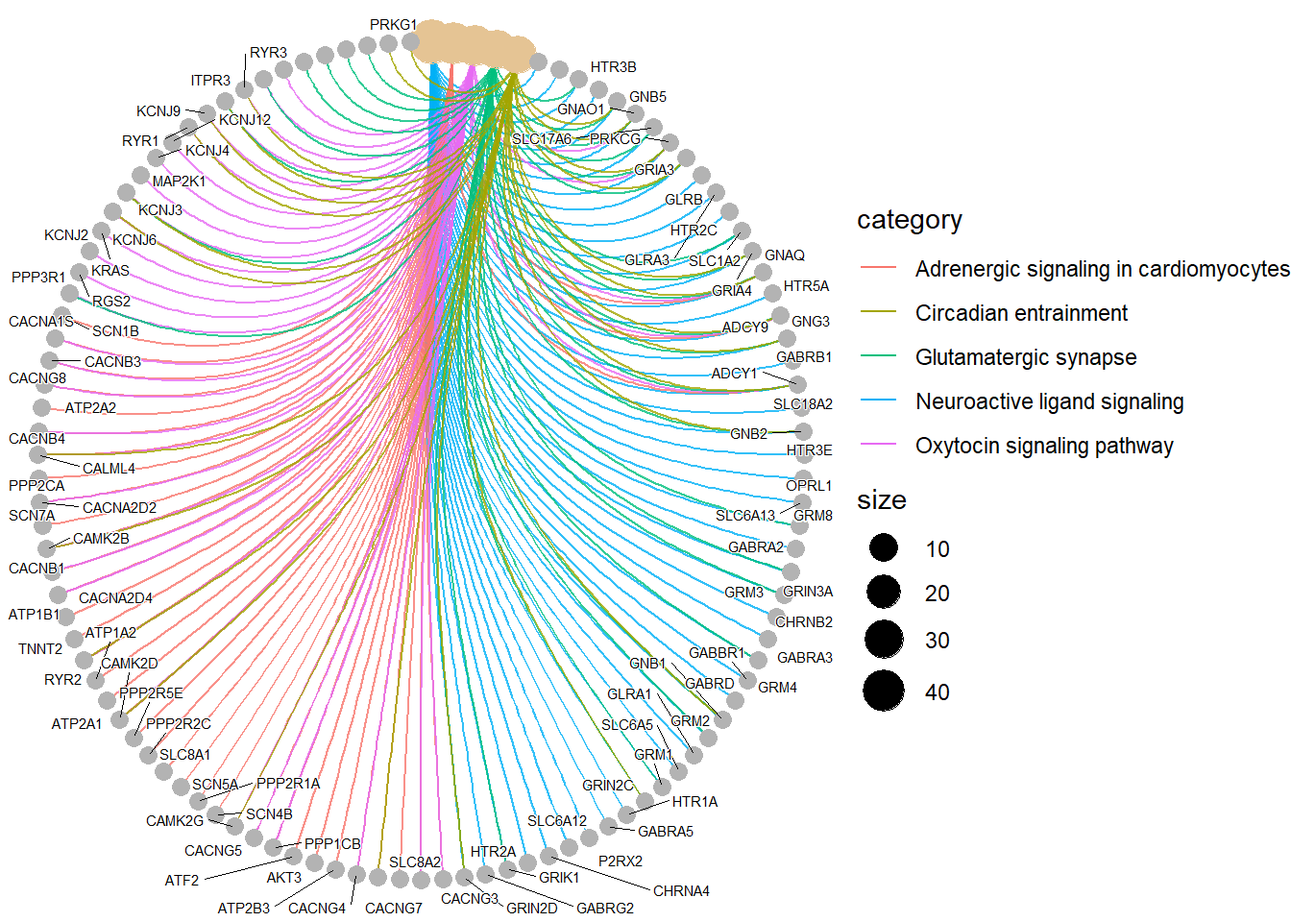
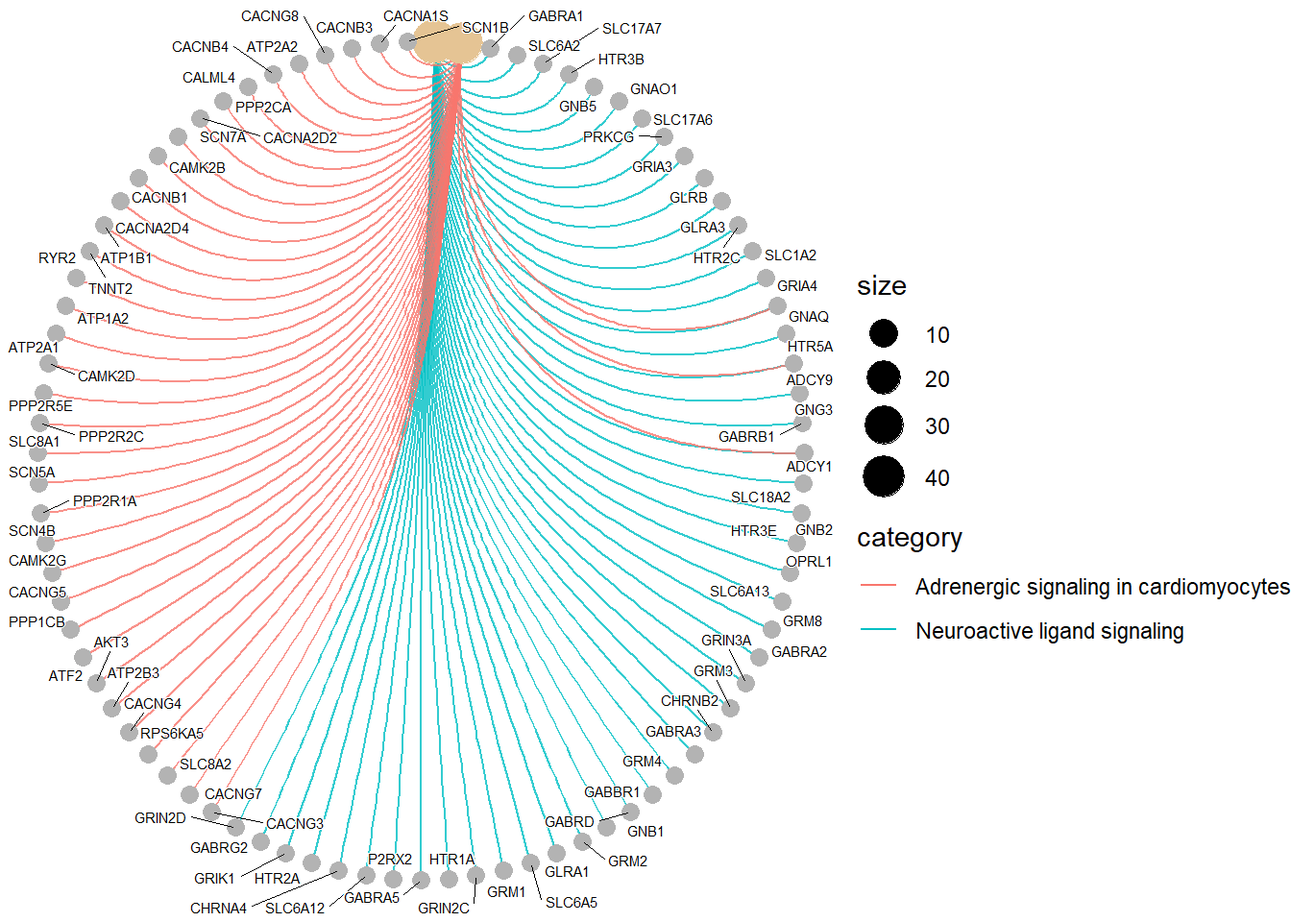
5/15/2026

Changed region(s): [[0.0, 0.0, 1.0, 1.0], [0.6562, 0.2188, 0.75, 0.25], [0.5, 0.9375, 0.5625, 0.9688]]

diff --git a/docs/part03_func_enrichment_clusterprofiler_v2.html b/docs/part03_func_enrichment_clusterprofiler_v2.html
@@ -37,6 +37,23 @@
 <script src="site_libs/navigation-1.1/codefolding.js"></script>
 <link href="site_libs/highlightjs-9.12.0/textmate.css" rel="stylesheet" />
 <script src="site_libs/highlightjs-9.12.0/highlight.js"></script>
+<link href="site_libs/htmltools-fill-0.5.8.1/fill.css" rel="stylesheet" />
+<script src="site_libs/htmlwidgets-1.6.4/htmlwidgets.js"></script>
+<link href="site_libs/datatables-css-0.0.0/datatables-crosstalk.css" rel="stylesheet" />
+<script src="site_libs/datatables-binding-0.33/datatables.js"></script>
+<link href="site_libs/dt-core-1.13.6/css/jquery.dataTables.min.css" rel="stylesheet" />
+<link href="site_libs/dt-core-1.13.6/css/jquery.dataTables.extra.css" rel="stylesheet" />
+<script src="site_libs/dt-core-1.13.6/js/jquery.dataTables.min.js"></script>
+<script src="site_libs/jszip-1.13.6/jszip.min.js"></script>
+<script src="site_libs/pdfmake-1.13.6/pdfmake.js"></script>
+<script src="site_libs/pdfmake-1.13.6/vfs_fonts.js"></script>
+<link href="site_libs/dt-ext-buttons-1.13.6/css/buttons.dataTables.min.css" rel="stylesheet" />
+<script src="site_libs/dt-ext-buttons-1.13.6/js/dataTables.buttons.min.js"></script>
+<script src="site_libs/dt-ext-buttons-1.13.6/js/buttons.html5.min.js"></script>
+<script src="site_libs/dt-ext-buttons-1.13.6/js/buttons.colVis.min.js"></script>
+<script src="site_libs/dt-ext-buttons-1.13.6/js/buttons.print.min.js"></script>
+<link href="site_libs/crosstalk-1.2.1/css/crosstalk.min.css" rel="stylesheet" />
+<script src="site_libs/crosstalk-1.2.1/js/crosstalk.min.js"></script>
 <link href="site_libs/font-awesome-6.4.2/css/all.min.css" rel="stylesheet" />
 <link href="site_libs/font-awesome-6.4.2/css/v4-shims.min.css" rel="stylesheet" />
 
@@ -400,7 +417,7 @@ aria-hidden="true"></span> </a>
 <div class="tab-content">
 <div id="summary" class="tab-pane fade in active">
 <p>
-<strong>Last updated:</strong> 2026-05-14
+<strong>Last updated:</strong> 2026-05-15
 </p>
 <p>
 <strong>Checks:</strong> <span
@@ -534,15 +551,15 @@ project makes it easier to run your code on other machines.</p>
 <div class="panel panel-default">
 <div class="panel-heading">
 <p class="panel-title">
-<a data-toggle="collapse" data-parent="#workflowr-checks" href="#strongRepositoryversionstrongahrefhttpsgithubcomhan16deepmotifstree1c1e96f09645b4eb6708d34d26c876f9dfafab95targetblank1c1e96fa">
+<a data-toggle="collapse" data-parent="#workflowr-checks" href="#strongRepositoryversionstrongahrefhttpsgithubcomhan16deepmotifstree71f26874ce268f691884d6c8c4ad8a2c129c163ftargetblank71f2687a">
 <span class="glyphicon glyphicon-ok text-success"
 aria-hidden="true"></span> <strong>Repository version:</strong>
-<a href="https://github.com/han16/deep_motifs/tree/1c1e96f09645b4eb6708d34d26c876f9dfafab95" target="_blank">1c1e96f</a>
+<a href="https://github.com/han16/deep_motifs/tree/71f26874ce268f691884d6c8c4ad8a2c129c163f" target="_blank">71f2687</a>
 </a>
 </p>
 </div>
 <div
[2 lines of base64/hex data omitted]
 class="panel-collapse collapse">
 <div class="panel-body">
 <p>
@@ -552,7 +569,7 @@ reproducibility.
 </p>
 <p>
 The results in this page were generated with repository version
-<a href="https://github.com/han16/deep_motifs/tree/1c1e96f09645b4eb6708d34d26c876f9dfafab95" target="_blank">1c1e96f</a>.
+<a href="https://github.com/han16/deep_motifs/tree/71f26874ce268f691884d6c8c4ad8a2c129c163f" target="_blank">71f2687</a>.
 See the <em>Past versions</em> tab to see a history of the changes made
 to the R Markdown and HTML files.
 </p>
@@ -618,6 +635,40 @@ Message
 </tr>
 </thead>
 <tbody>
+<tr>
+<td>
+Rmd
+</td>
+<td>
+<a href="https://github.com/han16/deep_motifs/blob/71f26874ce268f691884d6c8c4ad8a2c129c163f/analysis/part03_func_enrichment_clusterprofiler_v2.Rmd" target="_blank">71f2687</a>
+</td>
+<td>
+han
+</td>
+<td>
+2026-05-14
+</td>
+<td>
+5/14/2026
+</td>
+</tr>
+<tr>
+<td>
+html
+</td>
+<td>
+<a href="https://rawcdn.githack.com/han16/deep_motifs/71f26874ce268f691884d6c8c4ad8a2c129c163f/docs/part03_func_enrichment_clusterprofiler_v2.html" target="_blank">71f2687</a>
+</td>
+<td>
+han
+</td>
+<td>
+2026-05-14
+</td>
+<td>
+5/14/2026
+</td>
+</tr>
 <tr>
 <td>
 Rmd
@@ -897,6 +948,43 @@ ekegg &lt;- enrichKEGG(gene         = entrez_ids,
 # Network plot for KEGG pathways
 cnetplot(ekegg, circular = TRUE, colorEdge = TRUE, cex_label_gene=0.5, cex_label_category=5)</code></pre>
 <p><img src="figure/part03_func_enrichment_clusterprofiler_v2.Rmd/unnamed-chunk-7-1.png" width="672" style="display: block; margin: auto;" /></p>
+<p>
+<button type="button" class="btn btn-default btn-xs btn-workflowr btn-workflowr-fig" data-toggle="collapse" data-target="#fig-unnamed-chunk-7-1">
+Past versions of unnamed-chunk-7-1.png
+</button>
+</p>
+<div id="fig-unnamed-chunk-7-1" class="collapse">
+<div class="table-responsive">
+<table class="table table-condensed table-hover">
+<thead>
+<tr>
+<th>
+Version
+</th>
+<th>
+Author
+</th>
+<th>
+Date
+</th>
+</tr>
+</thead>
+<tbody>
+<tr>
+<td>
+<a href="https://github.com/han16/deep_motifs/blob/71f26874ce268f691884d6c8c4ad8a2c129c163f/docs/figure/part03_func_enrichment_clusterprofiler_v2.Rmd/unnamed-chunk-7-1.png" target="_blank">71f2687</a>
+</td>
+<td>
+han
+</td>
+<td>
+2026-05-14
+</td>
+</tr>
+</tbody>
+</table>
+</div>
+</div>
 <pre class="r"><code>length(unique(ekegg@gene))</code></pre>
 <pre><code>[1] 902</code></pre>
 <pre class="r"><code># Convert Entrez IDs to Gene Symbols
@@ -910,8 +998,108 @@ ekegg@result$geneID &lt;- sapply(strsplit(ekegg@result$geneID, &quot;/&quot;), f
 length(unique(ekegg@gene))</code></pre>
 <pre><code>[1] 902</code></pre>
 <pre class="r"><code># Plot the cnetplot with gene symbols
-cnetplot(ekegg, circular = TRUE, colorEdge = TRUE, cex_label_gene=0.4, cex_label_category=1)</code></pre>
-<p><img src="figure/part03_func_enrichment_clusterprofiler_v2.Rmd/unnamed-chunk-8-1.png" width="672" style="display: block; margin: auto;" /></p>
+genes_in_plot &lt;- unique(unlist(strsplit(ekegg@result$geneID[1:2], &quot;/&quot;)))
+length(genes_in_plot)</code></pre>
+<pre><code>[1] 85</code></pre>
+<pre class="r"><code>plot_results &lt;- result_round1[result_round1$symbol %in% genes_in_plot, ]
+
+plot_results %&gt;% 
+  datatable(extensions = &#39;Buttons&#39;,
+            options = list(dom = &#39;Blfrtip&#39;,
+                           buttons = c(&#39;copy&#39;, &#39;csv&#39;, &#39;excel&#39;, &#39;pdf&#39;, &#39;print&#39;),
+                           lengthMenu = list(c(10,25,50,-1),
+                                             c(10,25,50,&quot;All&quot;))))</code></pre>
+<div class="datatables html-widget html-fill-item" id="htmlwidget-a931752ae4f30d759859" style="width:100%;height:auto;"></div>
+<script type="application/json" data-for="htmlwidget-a931752ae4f30d759859">{"x":{"filter":"none","vertical":false,"extensions":["Buttons"],"data":[["1","2","3","4","5","6","7","8","9","10","11","12","13","14","15","16","17","18","19","20","21","22","23","24","25","26","27","28","29","30","31","32","33","34","35","36","37","38","39","40","41","42","43","44","45","46","47","48","49","50","51","52","53","54","55","56","57","58","59","60","61","62","63","64","65","66","67","68","69","70","71","72","73","74","75","76","77","78","79","80","81","82","83","84","85"],["ENSP00000005284","ENSP00000023897","ENSP00000219833","ENSP00000221485","ENSP00000222212","ENSP00000236877","ENSP00000260191","ENSP00000261837","ENSP00000261991","ENSP00000262138","ENSP00000262493","ENSP00000263160","ENSP00000263431","ENSP00000263519","ENSP00000263826","ENSP00000264110","ENSP00000264357","ENSP00000264428","ENSP00000274093","ENSP00000276198","ENSP00000278379","ENSP00000282499","ENSP00000286548","ENSP00000287907","ENSP00000294016","ENSP00000294117","ENSP00000295454","ENSP00000296122","ENSP00000297323","ENSP00000298472","ENSP00000303092","ENSP00000305260","ENSP00000319060","ENSP00000322460","ENSP00000324804","ENSP00000328968","ENSP00000332931","ENSP00000335083","ENSP00000335511","ENSP00000336764","ENSP00000337641","ENSP00000339260","ENSP00000339740","ENSP00000344173","ENSP00000348897","ENSP00000349595","ENSP00000354490","ENSP00000355155","ENSP00000355316","ENSP00000355533","ENSP00000356286","ENSP00000356789","ENSP00000357461","ENSP00000359334","ENSP00000363296","ENSP00000366233","ENSP00000367848","ENSP00000367869","ENSP00000372169","ENSP00000377840","ENSP00000378492","ENSP00000379098","ENSP00000386796","ENSP00000411593","ENSP00000418081","ENSP00000418447","ENSP00000419081","ENSP00000434364","ENSP00000438949","ENSP00000440045","ENSP00000270458","ENSP00000282753","ENSP00000293190","ENSP00000301050","ENSP00000316244","ENSP00000335592","ENSP00000343339","ENSP00000352702","ENSP00000355192","ENSP00000359285","ENSP00000367959","ENSP00000382791","ENSP00000396915","ENSP00000410732","ENSP00000263269"],[10368,2554,6530,57030,59284,6543,9177,10681,9252,27092,2775,57084,5582,492,10000,1386,2892,2743,8001,3358,6506,2893,2776,3361,115,2785,2560,5500,107,6571,27091,2783,818,6330,5518,6331,6546,5522,285242,4987,5529,6540,817,2918,2555,487,477,116443,2913,6262,7139,481,1141,2556,2914,2550,2563,2782,93589,782,2912,816,6332,2741,9254,5515,91860,9152,785,488,59283,2911,2905,784,3350,2558,22953,6539,779,1137,3356,2897,6324,2566,2906],["CACNG3","GABRA1","SLC6A2","SLC17A7","CACNG7","SLC8A2","HTR3B","GNB5","RPS6KA5","CACNG4","GNAO1","SLC17A6","PRKCG","ATP2B3","AKT3","ATF2","GRIA3","GLRB","GLRA3","HTR2C","SLC1A2","GRIA4","GNAQ","HTR5A","ADCY9","GNG3","GABRB1","PPP1CB","ADCY1","SLC18A2","CACNG5","GNB2","CAMK2G","SCN4B","PPP2R1A","SCN5A","SLC8A1","PPP2R2C","HTR3E","OPRL1","PPP2R5E","SLC6A13","CAMK2D","GRM8","GABRA2","ATP2A1","ATP1A2","GRIN3A","GRM3","RYR2","TNNT2","ATP1B1","CHRNB2","GABRA3","GRM4","GABBR1","GABRD","GNB1","CACNA2D4","CACNB1","GRM2","CAMK2B","SCN7A","GLRA1","CACNA2D2","PPP2CA","CALML4","SLC6A5","CACNB4","ATP2A2","CACNG8","GRM1","GRIN2C","CACNB3","HTR1A","GABRA5","P2RX2","SLC6A12","CACNA1S","CHRNA4","HTR2A","GRIK1","SCN1B","GABRG2","GRIN2D"],[0.7185011734490878,0.9498805259236656,0.5026292126907923,0.8568566861316101,0.5543561931823221,0.5769930345918395,0.567650298747657,0.6584036292669604,0.5095134537125442,0.7005293198217616,0.8706857805530813,0.638848013998879,0.5425321131805275,0.719665339472997,0.6893668798617126,0.5622370010526542,0.7765718860180719,0.5913416110332372,0.532509963444874,0.6597936350084709,0.5661332231939014,0.7186813131818965,0.5371576936905572,0.5080097616457301,0.7577577690429171,0.5166753562738974,0.7782175267991511,0.8273447736848967,0.6946519661271191,0.5680575188615096,0.5263589312532353,0.7900413216105399,0.609808187254995,0.5042124335710351,0.743161794062528,0.509360465007721,0.5935819482045531,0.5065629100566501,0.5310900904407702,0.5199925937725934,0.5205277363891798,0.5488946824751496,0.52575343857796,0.561489173089584,0.57408679757493,0.5003798166314839,0.6021707397441545,0.62591649428868,0.7242123968247615,0.7948353707849116,0.5660162374223343,0.8940050981929271,0.5273001188324545,0.5628571812639548,0.5245914621585879,0.5271266225963216,0.6297490579713939,0.5397595054059873,0.594479093850329,0.6602323637826929,0.7425441686302381,0.8448783107885154,0.7315405367798822,0.5372794972160646,0.6280657279879294,0.5735193786611598,0.5009274348320594,0.5126128702787203,0.7059016819078747,0.5597407152441575,0.5508319049166247,0.6915229527958355,0.5663708175318808,0.6573857055695054,0.6865179365462261,0.6242685796414321,0.5365438293942805,0.5517580374298583,0.5088255712527152,0.603030395463331,0.5342275558892673,0.6392554838874261,0.5013475837589784,0.7895587465849689,0.5092219941038921],[0.0367721277578287,0.0100216971094612,0.0615710375727286,0.0264262279017189,0.0581807740208813,0.0141058151320638,0.0454095180273377,0.0350041022058101,0.0539100846123557,0.0649035586496835,0.0177534114441801,0.022865625613912,0.109838921761479,0.0398010628100413,0.0151808708316453,0.0547418386360498,0.0461914793893101,0.0288480056505279,0.029391920814991,0.0418812456098474,0.0750639875072547,0.0363292078002463,0.07557040159196581,0.0693565032503775,0.0242570616926062,0.0258175988468056,0.0254753644119805,0.0176569213270225,0.0983916361270807,0.0452542574158219,0.0587414423905345,0.0186016976984033,0.0501563517004209,0.0301358835659459,0.0505568446304204,0.0475514540355994,0.1104382428447359,0.0281982454592998,0.0226911705760007,0.0253714185012923,0.0470663458697091,0.0408756074146297,0.0229085282889194,0.08517994466913049,0.0296017826246847,0.08659223718171551,0.0276025967236761,0.0488273412174871,0.0577603856645712,0.0382284775474376,0.0333619752941216,0.0143178446614641,0.0360895009382998,0.0510189863938722,0.0221582060523037,0.0323783863045284,0.0556124522560769,0.0614794189252955,0.0325518877034675,0.0223566952041882,0.0618061056897049,0.02562803792782,0.0308229789295418,0.0485213742880341,0.06695515832543419,0.0877370408990595,0.0611529510325217,0.1118908454231614,0.0276508466525665,0.0512332542178875,0.0531964902444516,0.0422275428421832,0.0455350484441095,0.0203695349097184,0.0277344532588721,0.0271115476737349,0.0746286071152919,0.0728623647909806,0.0356060259051829,0.0202954007113334,0.07648678341418109,0.0194732327880923,0.0328869661264452,0.0202576880708533,0.0276566157029603],[4,4,5,5,3,2,4,5,4,4,3,5,4,4,3,4,4,4,4,5,5,5,5,4,4,3,4,5,5,5,5,5,5,5,5,5,3,3,4,4,4,4,5,5,3,5,4,5,5,4,5,4,3,5,4,5,5,4,5,5,5,2,3,4,4,4,5,4,5,4,4,3,3,4,4,3,4,4,4,3,4,4,3,3,3]],"container":"<table class=\"display\">\n  <thead>\n    <tr>\n      <th> <\/th>\n      <th>ensembl_string<\/th>\n      <th>entrez<\/th>\n      <th>symbol<\/th>\n      <th>deepmotifs_score_mean<\/th>\n      <th>deepmotifs_score_std<\/th>\n      <th>deepmotifs_n_runs<\/th>\n    <\/tr>\n  <\/thead>\n<\/table>","options":{"dom":"Blfrtip","buttons":["copy","csv","excel","pdf","print"],"lengthMenu":[[10,25,50,-1],["10","25","50","All"]],"columnDefs":[{"className":"dt-right","targets":[2,4,5,6]},{"orderable":false,"targets":0},{"name":" ","targets":0},{"name":"ensembl_string","targets":1},{"name":"entrez","targets":2},{"name":"symbol","targets":3},{"name":"deepmotifs_score_mean","targets":4},{"name":"deepmotifs_score_std","targets":5},{"name":"deepmotifs_n_runs","targets":6}],"order":[],"autoWidth":false,"orderClasses":false}},"evals":[],"jsHooks":[]}</script>
+<pre class="r"><code># 2. Create the named vector specifically for these genes
+gene_scores &lt;- plot_results$deepmotifs_score_mean
+names(gene_scores) &lt;- plot_results$symbol
+
+p1=cnetplot(ekegg, circular = TRUE, colorEdge = TRUE, 
+         showCategory = 2,         # This limits the plot to the top 3 results
+         cex_label_gene=0.4, cex_label_category=1)
+
+p1</code></pre>
+<p><img src="figure/part03_func_enrichment_clusterprofiler_v2.Rmd/unnamed-chunk-8-2.png" width="672" style="display: block; margin: auto;" /></p>
+<pre class="r"><code>p=cnetplot(ekegg, circular = TRUE, colorEdge = TRUE, 
+         showCategory = 2,         # This limits the plot to the top 3 results
+         foldChange = gene_scores,   # Scales gene circle size by mean score
+         cex_label_gene=0.4, cex_label_category=1)
+
+
+  # Use this to make the size differences more obvious
+p+ # Change the color gradient to shades of blue and rename the legend
+  scale_color_gradient(low = &quot;#e5f5e0&quot;, high = &quot;#006d2c&quot;, name = &quot;DeepMOTIFs score&quot;) +
+  
+  # Adjust the size range and rename the size legend
+  scale_size_continuous(range = c(1.5, 6), name = &quot;Size&quot;) +
+  
+  # Optional: Clean up the theme
+  theme(legend.title = element_text(size = 10), 
+        legend.text = element_text(size = 8))</code></pre>
+<p><img src="figure/part03_func_enrichment_clusterprofiler_v2.Rmd/unnamed-chunk-8-3.png" width="672" style="display: block; margin: auto;" /></p>
+<div id="pathways" class="section level4">
+<h4>pathways</h4>
+<pre class="r"><code># Extract top 5 pathways by p values 
+ekegg_top5 &lt;- ekegg
+ekegg_top5@result &lt;- ekegg@result[1:5, ]
+
+# Convert to tibble to use dplyr functions safely
+ekegg_df &lt;- as_tibble(ekegg_top5@result)
+
+# Extract gene–pathway relationships
+gene_pathway_df &lt;- ekegg_df %&gt;%
+  dplyr::select(Description, geneID) %&gt;%
+  tidyr::separate_rows(geneID, sep = &quot;/&quot;) %&gt;%
+  dplyr::rename(pathway = Description, gene = geneID) %&gt;%
+  dplyr::distinct()
+
+
+
+
+
+gene_pathway_df%&gt;%
+datatable(extensions = &#39;Buttons&#39;,
+            options = list(dom = &#39;Blfrtip&#39;,
+                           buttons = c(&#39;copy&#39;, &#39;csv&#39;, &#39;excel&#39;, &#39;pdf&#39;, &#39;print&#39;),
+                           lengthMenu = list(c(10,25,50,-1),
+                                             c(10,25,50,&quot;All&quot;))))</code></pre>
+<div class="datatables html-widget html-fill-item" id="htmlwidget-5affc4f25ab85bf888dc" style="width:100%;height:auto;"></div>
+<script type="application/json" data-for="htmlwidget-5affc4f25ab85bf888dc">{"x":{"filter":"none","vertical":false,"extensions":["Buttons"],"data":[["1","2","3","4","5","6","7","8","9","10","11","12","13","14","15","16","17","18","19","20","21","22","23","24","25","26","27","28","29","30","31","32","33","34","35","36","37","38","39","40","41","42","43","44","45","46","47","48","49","50","51","52","53","54","55","56","57","58","59","60","61","62","63","64","65","66","67","68","69","70","71","72","73","74","75","76","77","78","79","80","81","82","83","84","85","86","87","88","89","90","91","92","93","94","95","96","97","98","99","100","101","102","103","104","105","106","107","108","109","110","111","112","113","114","115","116","117","118","119","120","121","122","123","124","125","126","127","128","129","130","131","132","133","134","135","136","137","138","139","140","141","142","143","144","145","146","147","148","149","150","151","152","153","154","155","156","157","158","159","160","161","162","163","164","165","166","167","168","169","170","171","172","173","174","175","176","177","178","179","180","181","182","183"],["Neuroactive ligand signaling","Neuroactive ligand signaling","Neuroactive ligand signaling","Neuroactive ligand signaling","Neuroactive ligand signaling","Neuroactive ligand signaling","Neuroactive ligand signaling","Neuroactive ligand signaling","Neuroactive ligand signaling","Neuroactive ligand signaling","Neuroactive ligand signaling","Neuroactive ligand signaling","Neuroactive ligand signaling","Neuroactive ligand signaling","Neuroactive ligand signaling","Neuroactive ligand signaling","Neuroactive ligand signaling","Neuroactive ligand signaling","Neuroactive ligand signaling","Neuroactive ligand signaling","Neuroactive ligand signaling","Neuroactive ligand signaling","Neuroactive ligand signaling","Neuroactive ligand signaling","Neuroactive ligand signaling","Neuroactive ligand signaling","Neuroactive ligand signaling","Neuroactive ligand signaling","Neuroactive ligand signaling","Neuroactive ligand signaling","Neuroactive ligand signaling","Neuroactive ligand signaling","Neuroactive ligand signaling","Neuroactive ligand signaling","Neuroactive ligand signaling","Neuroactive ligand signaling","Neuroactive ligand signaling","Neuroactive ligand signaling","Neuroactive ligand signaling","Neuroactive ligand signaling","Neuroactive ligand signaling","Neuroactive ligand signaling","Neuroactive ligand signaling","Neuroactive ligand signaling","Neuroactive ligand signaling","Neuroactive ligand signaling","Neuroactive ligand signaling","Neuroactive ligand signaling","Neuroactive ligand signaling","Adrenergic signaling in cardiomyocytes","Adrenergic signaling in cardiomyocytes","Adrenergic signaling in cardiomyocytes","Adrenergic signaling in cardiomyocytes","Adrenergic signaling in cardiomyocytes","Adrenergic signaling in cardiomyocytes","Adrenergic signaling in cardiomyocytes","Adrenergic signaling in cardiomyocytes","Adrenergic signaling in cardiomyocytes","Adrenergic signaling in cardiomyocytes","Adrenergic signaling in cardiomyocytes","Adrenergic signaling in cardiomyocytes","Adrenergic signaling in cardiomyocytes","Adrenergic signaling in cardiomyocytes","Adrenergic signaling in cardiomyocytes","Adrenergic signaling in cardiomyocytes","Adrenergic signaling in cardiomyocytes","Adrenergic signaling in cardiomyocytes","Adrenergic signaling in cardiomyocytes","Adrenergic signaling in cardiomyocytes","Adrenergic signaling in cardiomyocytes","Adrenergic signaling in cardiomyocytes","Adrenergic signaling in cardiomyocytes","Adrenergic signaling in cardiomyocytes","Adrenergic signaling in cardiomyocytes","Adrenergic signaling in cardiomyocytes","Adrenergic signaling in cardiomyocytes","Adrenergic signaling in cardiomyocytes","Adrenergic signaling in cardiomyocytes","Adrenergic signaling in cardiomyocytes","Adrenergic signaling in cardiomyocytes","Adrenergic signaling in cardiomyocytes","Adrenergic signaling in cardiomyocytes","Adrenergic signaling in cardiomyocytes","Adrenergic signaling in cardiomyocytes","Adrenergic signaling in cardiomyocytes","Adrenergic signaling in cardiomyocytes","Adrenergic signaling in cardiomyocytes","Adrenergic signaling in cardiomyocytes","Oxytocin signaling pathway","Oxytocin signaling pathway","Oxytocin signaling pathway","Oxytocin signaling pathway","Oxytocin signaling pathway","Oxytocin signaling pathway","Oxytocin signaling pathway","Oxytocin signaling pathway","Oxytocin signaling pathway","Oxytocin signaling pathway","Oxytocin signaling pathway","Oxytocin signaling pathway","Oxytocin signaling pathway","Oxytocin signaling pathway","Oxytocin signaling pathway","Oxytocin signaling pathway","Oxytocin signaling pathway","Oxytocin signaling pathway","Oxytocin signaling pathway","Oxytocin signaling pathway","Oxytocin signaling pathway","Oxytocin signaling pathway","Oxytocin signaling pathway","Oxytocin signaling pathway","Oxytocin signaling pathway","Oxytocin signaling pathway","Oxytocin signaling pathway","Oxytocin signaling pathway","Oxytocin signaling pathway","Oxytocin signaling pathway","Oxytocin signaling pathway","Oxytocin signaling pathway","Oxytocin signaling pathway","Oxytocin signaling pathway","Oxytocin signaling pathway","Oxytocin signaling pathway","Oxytocin signaling pathway","Glutamatergic synapse","Glutamatergic synapse","Glutamatergic synapse","Glutamatergic synapse","Glutamatergic synapse","Glutamatergic synapse","Glutamatergic synapse","Glutamatergic synapse","Glutamatergic synapse","Glutamatergic synapse","Glutamatergic synapse","Glutamatergic synapse","Glutamatergic synapse","Glutamatergic synapse","Glutamatergic synapse","Glutamatergic synapse","Glutamatergic synapse","Glutamatergic synapse","Glutamatergic synapse","Glutamatergic synapse","Glutamatergic synapse","Glutamatergic synapse","Glutamatergic synapse","Glutamatergic synapse","Glutamatergic synapse","Glutamatergic synapse","Glutamatergic synapse","Glutamatergic synapse","Glutamatergic synapse","Glutamatergic synapse","Glutamatergic synapse","Circadian entrainment","Circadian entrainment","Circadian entrainment","Circadian entrainment","Circadian entrainment","Circadian entrainment","Circadian entrainment","Circadian entrainment","Circadian entrainment","Circadian entrainment","Circadian entrainment","Circadian entrainment","Circadian entrainment","Circadian entrainment","Circadian entrainment","Circadian entrainment","Circadian entrainment","Circadian entrainment","Circadian entrainment","Circadian entrainment","Circadian entrainment","Circadian entrainment","Circadian entrainment","Circadian entrainment","Circadian entrainment","Circadian entrainment","Circadian entrainment"],["GABRA1","SLC6A2","SLC17A7","HTR3B","GNB5","GNAO1","SLC17A6","PRKCG","GRIA3","GLRB","GLRA3","HTR2C","SLC1A2","GRIA4","GNAQ","HTR5A","ADCY9","GNG3","GABRB1","ADCY1","SLC18A2","GNB2","HTR3E","OPRL1","SLC6A13","GRM8","GABRA2","GRIN3A","GRM3","CHRNB2","GABRA3","GRM4","GABBR1","GABRD","GNB1","GRM2","GLRA1","SLC6A5","GRM1","GRIN2C","HTR1A","GABRA5","P2RX2","SLC6A12","CHRNA4","HTR2A","GRIK1","GABRG2","GRIN2D","CACNG3","CACNG7","SLC8A2","RPS6KA5","CACNG4","ATP2B3","AKT3","ATF2","GNAQ","ADCY9","PPP1CB","ADCY1","CACNG5","CAMK2G","SCN4B","PPP2R1A","SCN5A","SLC8A1","PPP2R2C","PPP2R5E","CAMK2D","ATP2A1","ATP1A2","RYR2","TNNT2","ATP1B1","CACNA2D4","CACNB1","CAMK2B","SCN7A","CACNA2D2","PPP2CA","CALML4","CACNB4","ATP2A2","CACNG8","CACNB3","CACNA1S","SCN1B","CACNG3","CACNG7","PPP3R1","RGS2","KCNJ2","KRAS","CACNG4","GNAO1","PRKCG","GNAQ","KCNJ6","ADCY9","KCNJ3","PPP1CB","ADCY1","MAP2K1","CACNG5","KCNJ4","CAMK2G","KCNJ12","CAMK2D","RYR1","RYR2","KCNJ9","ITPR3","CACNA2D4","RYR3","CACNB1","PPP3CA","CAMK2B","CACNA2D2","CALML4","CACNB4","CACNG8","CACNB3","CACNA1S","NFATC4","SLC17A7","PPP3R1","GNB5","GNAO1","SLC17A6","PRKCG","GRIA3","TRPC1","SLC1A2","GRIA4","GNAQ","ADCY9","GNG3","KCNJ3","ADCY1","GNB2","HOMER2","GLS","GRM8","GRIN3A","GRM3","GRM4","ITPR3","GNB1","PPP3CA","GRM2","GRM1","GRIN2C","HOMER3","GRIK1","GRIN2D","GNB5","RPS6KA5","GNAO1","PRKCG","GRIA3","GRIA4","GNAQ","KCNJ6","ADCY9","GNG3","KCNJ3","ADCY1","GNB2","CAMK2G","CAMK2D","RYR1","NOS1AP","RYR2","KCNJ9","PRKG1","ITPR3","GNB1","RYR3","CAMK2B","CALML4","GRIN2C","GRIN2D"]],"container":"<table class=\"display\">\n  <thead>\n    <tr>\n      <th> <\/th>\n      <th>pathway<\/th>\n      <th>gene<\/th>\n    <\/tr>\n  <\/thead>\n<\/table>","options":{"dom":"Blfrtip","buttons":["copy","csv","excel","pdf","print"],"lengthMenu":[[10,25,50,-1],["10","25","50","All"]],"columnDefs":[{"orderable":false,"targets":0},{"name":" ","targets":0},{"name":"pathway","targets":1},{"name":"gene","targets":2}],"order":[],"autoWidth":false,"orderClasses":false}},"evals":[],"jsHooks":[]}</script>
+</div>
+<div id="top-20-enriched-terms" class="section level4">
+<h4>top 20 enriched terms</h4>
+<pre class="r"><code>#library(dplyr)
+#ekegg@result %&gt;%
+#  arrange(p.adjust) %&gt;%
+#  select(ID, Description, p.adjust) %&gt;%
+#  head(10)  # Top 10 enriched terms
+
+
+#list top 10 enriched terms 
+ekegg_result_sorted &lt;- ekegg@result[order(ekegg@result$p.adjust), ]
+head(ekegg_result_sorted[, c(&quot;ID&quot;, &quot;Description&quot;, &quot;p.adjust&quot;)], 20)</code></pre>
+<pre><code>               ID                                     Description     p.adjust
+hsa04082 hsa04082                    Neuroactive ligand signaling 3.011677e-19
+hsa04261 hsa04261          Adrenergic signaling in cardiomyocytes 9.057437e-16
+hsa04921 hsa04921                      Oxytocin signaling pathway 2.856922e-14
+hsa04724 hsa04724                           Glutamatergic synapse 2.473244e-13
+hsa04713 hsa04713                           Circadian entrainment 4.213418e-12
+hsa04360 hsa04360                                   Axon guidance 5.991905e-12
+hsa04517 hsa04517                              IgSF CAM signaling 3.525186e-11
+hsa04727 hsa04727                               GABAergic synapse 1.407630e-10
+hsa04725 hsa04725                             Cholinergic synapse 1.901835e-10
+hsa05032 hsa05032                              Morphine addiction 1.901835e-10
+hsa04728 hsa04728                            Dopaminergic synapse 1.929779e-10
+hsa05033 hsa05033                              Nicotine addiction 7.517518e-10
+hsa04911 hsa04911                               Insulin secretion 1.370799e-08
+hsa05412 hsa05412 Arrhythmogenic right ventricular cardiomyopathy 1.370799e-08
+hsa04260 hsa04260                      Cardiac muscle contraction 1.610537e-08
+hsa04022 hsa04022                      cGMP-PKG signaling pathway 3.602620e-08
+hsa04020 hsa04020                       Calcium signaling pathway 3.976330e-08
+hsa04519 hsa04519                              Cadherin signaling 5.476688e-08
+hsa05414 hsa05414                          Dilated cardiomyopathy 8.814771e-08
+hsa04726 hsa04726                            Serotonergic synapse 9.715067e-08</code></pre>
 <br>
 <p>
 <button type="button" class="btn btn-default btn-workflowr btn-workflowr-sessioninfo" data-toggle="collapse" data-target="#workflowr-sessioninfo" style="display: block;">
@@ -963,36 +1151,37 @@ loaded via a namespace (and not attached):
  [22] whisker_0.4.1           igraph_2.0.3            lifecycle_1.0.4        
  [25] pkgconfig_2.0.3         gson_0.1.0              Matrix_1.7-0           
  [28] R6_2.5.1                fastmap_1.1.1           GenomeInfoDbData_1.2.12
- [31] aplot_0.2.5             digest_0.6.35           colorspace_2.1-0       
- [34] patchwork_1.3.0         RSQLite_2.3.6           labeling_0.4.3         
- [37] fansi_1.0.6             timechange_0.3.0        httr_1.4.7             
- [40] polyclip_1.10-7         compiler_4.4.0          bit64_4.0.5            
- [43] withr_3.0.0             BiocParallel_1.38.0     viridis_0.6.5          
- [46] DBI_1.2.3               highr_0.10              ggforce_0.4.2          
- [49] R.utils_2.12.3          MASS_7.3-60.2           rappdirs_0.3.3         
- [52] tools_4.4.0             scatterpie_0.2.4        ape_5.8-1              
- [55] httpuv_1.6.15           R.oo_1.27.0             glue_1.7.0             
- [58] nlme_3.1-164            GOSemSim_2.30.2         promises_1.3.0         
- [61] shadowtext_0.1.4        reshape2_1.4.4          fgsea_1.30.0           
- [64] generics_0.1.3          gtable_0.3.5            tzdb_0.4.0             
- [67] R.methodsS3_1.8.2       data.table_1.15.4       hms_1.1.3              
- [70] tidygraph_1.3.1         utf8_1.2.4              XVector_0.44.0         
- [73] ggrepel_0.9.5           pillar_1.9.0            yulab.utils_0.2.0      
- [76] later_1.3.2             splines_4.4.0           tweenr_2.0.3           
- [79] treeio_1.28.0           lattice_0.22-6          bit_4.0.5              
- [82] tidyselect_1.2.1        GO.db_3.19.1            Biostrings_2.72.0      
- [85] knitr_1.46              git2r_0.33.0            gridExtra_2.3          
- [88] xfun_0.43               graphlayouts_1.2.2      stringi_1.8.4          
- [91] UCSC.utils_1.0.0        lazyeval_0.2.2          ggfun_0.1.8            
- [94] workflowr_1.7.1         yaml_2.3.8              evaluate_0.23          
- [97] codetools_0.2-20        ggraph_2.2.1            qvalue_2.36.0          
-[100] ggplotify_0.1.2         cli_3.6.2               munsell_0.5.1          
-[103] jquerylib_0.1.4         Rcpp_1.0.12             GenomeInfoDb_1.40.0    
-[106] png_0.1-8               parallel_4.4.0          blob_1.2.4             
-[109] DOSE_3.30.5             tidytree_0.4.6          viridisLite_0.4.2      
-[112] scales_1.3.0            crayon_1.5.2            rlang_1.1.3            
-[115] cowplot_1.1.3           fastmatch_1.1-6         KEGGREST_1.44.0        
-[118] formatR_1.14           </code></pre>
+ [31] aplot_0.2.5             digest_0.6.35           ggnewscale_0.5.1       
+ [34] colorspace_2.1-0        patchwork_1.3.0         crosstalk_1.2.1        
+ [37] RSQLite_2.3.6           labeling_0.4.3          fansi_1.0.6            
+ [40] timechange_0.3.0        httr_1.4.7              polyclip_1.10-7        
+ [43] compiler_4.4.0          bit64_4.0.5             withr_3.0.0            
+ [46] BiocParallel_1.38.0     viridis_0.6.5           DBI_1.2.3              
+ [49] highr_0.10              ggforce_0.4.2           R.utils_2.12.3         
+ [52] MASS_7.3-60.2           rappdirs_0.3.3          tools_4.4.0            
+ [55] scatterpie_0.2.4        ape_5.8-1               httpuv_1.6.15          
+ [58] R.oo_1.27.0             glue_1.7.0              nlme_3.1-164           
+ [61] GOSemSim_2.30.2         promises_1.3.0          shadowtext_0.1.4       
+ [64] reshape2_1.4.4          fgsea_1.30.0            generics_0.1.3         
+ [67] gtable_0.3.5            tzdb_0.4.0              R.methodsS3_1.8.2      
+ [70] data.table_1.15.4       hms_1.1.3               tidygraph_1.3.1        
+ [73] utf8_1.2.4              XVector_0.44.0          ggrepel_0.9.5          
+ [76] pillar_1.9.0            yulab.utils_0.2.0       later_1.3.2            
+ [79] splines_4.4.0           tweenr_2.0.3            treeio_1.28.0          
+ [82] lattice_0.22-6          bit_4.0.5               tidyselect_1.2.1       
+ [85] GO.db_3.19.1            Biostrings_2.72.0       knitr_1.46             
+ [88] git2r_0.33.0            gridExtra_2.3           xfun_0.43              
+ [91] graphlayouts_1.2.2      stringi_1.8.4           UCSC.utils_1.0.0       
+ [94] lazyeval_0.2.2          ggfun_0.1.8             workflowr_1.7.1        
+ [97] yaml_2.3.8              evaluate_0.23           codetools_0.2-20       
+[100] ggraph_2.2.1            qvalue_2.36.0           ggplotify_0.1.2        
+[103] cli_3.6.2               munsell_0.5.1           jquerylib_0.1.4        
+[106] Rcpp_1.0.12             GenomeInfoDb_1.40.0     png_0.1-8              
+[109] parallel_4.4.0          blob_1.2.4              DOSE_3.30.5            
+[112] tidytree_0.4.6          viridisLite_0.4.2       scales_1.3.0           
+[115] crayon_1.5.2            rlang_1.1.3             cowplot_1.1.3          
+[118] fastmatch_1.1-6         KEGGREST_1.44.0         formatR_1.14           </code></pre>
+</div>
 </div>
 </div>
 </div>
